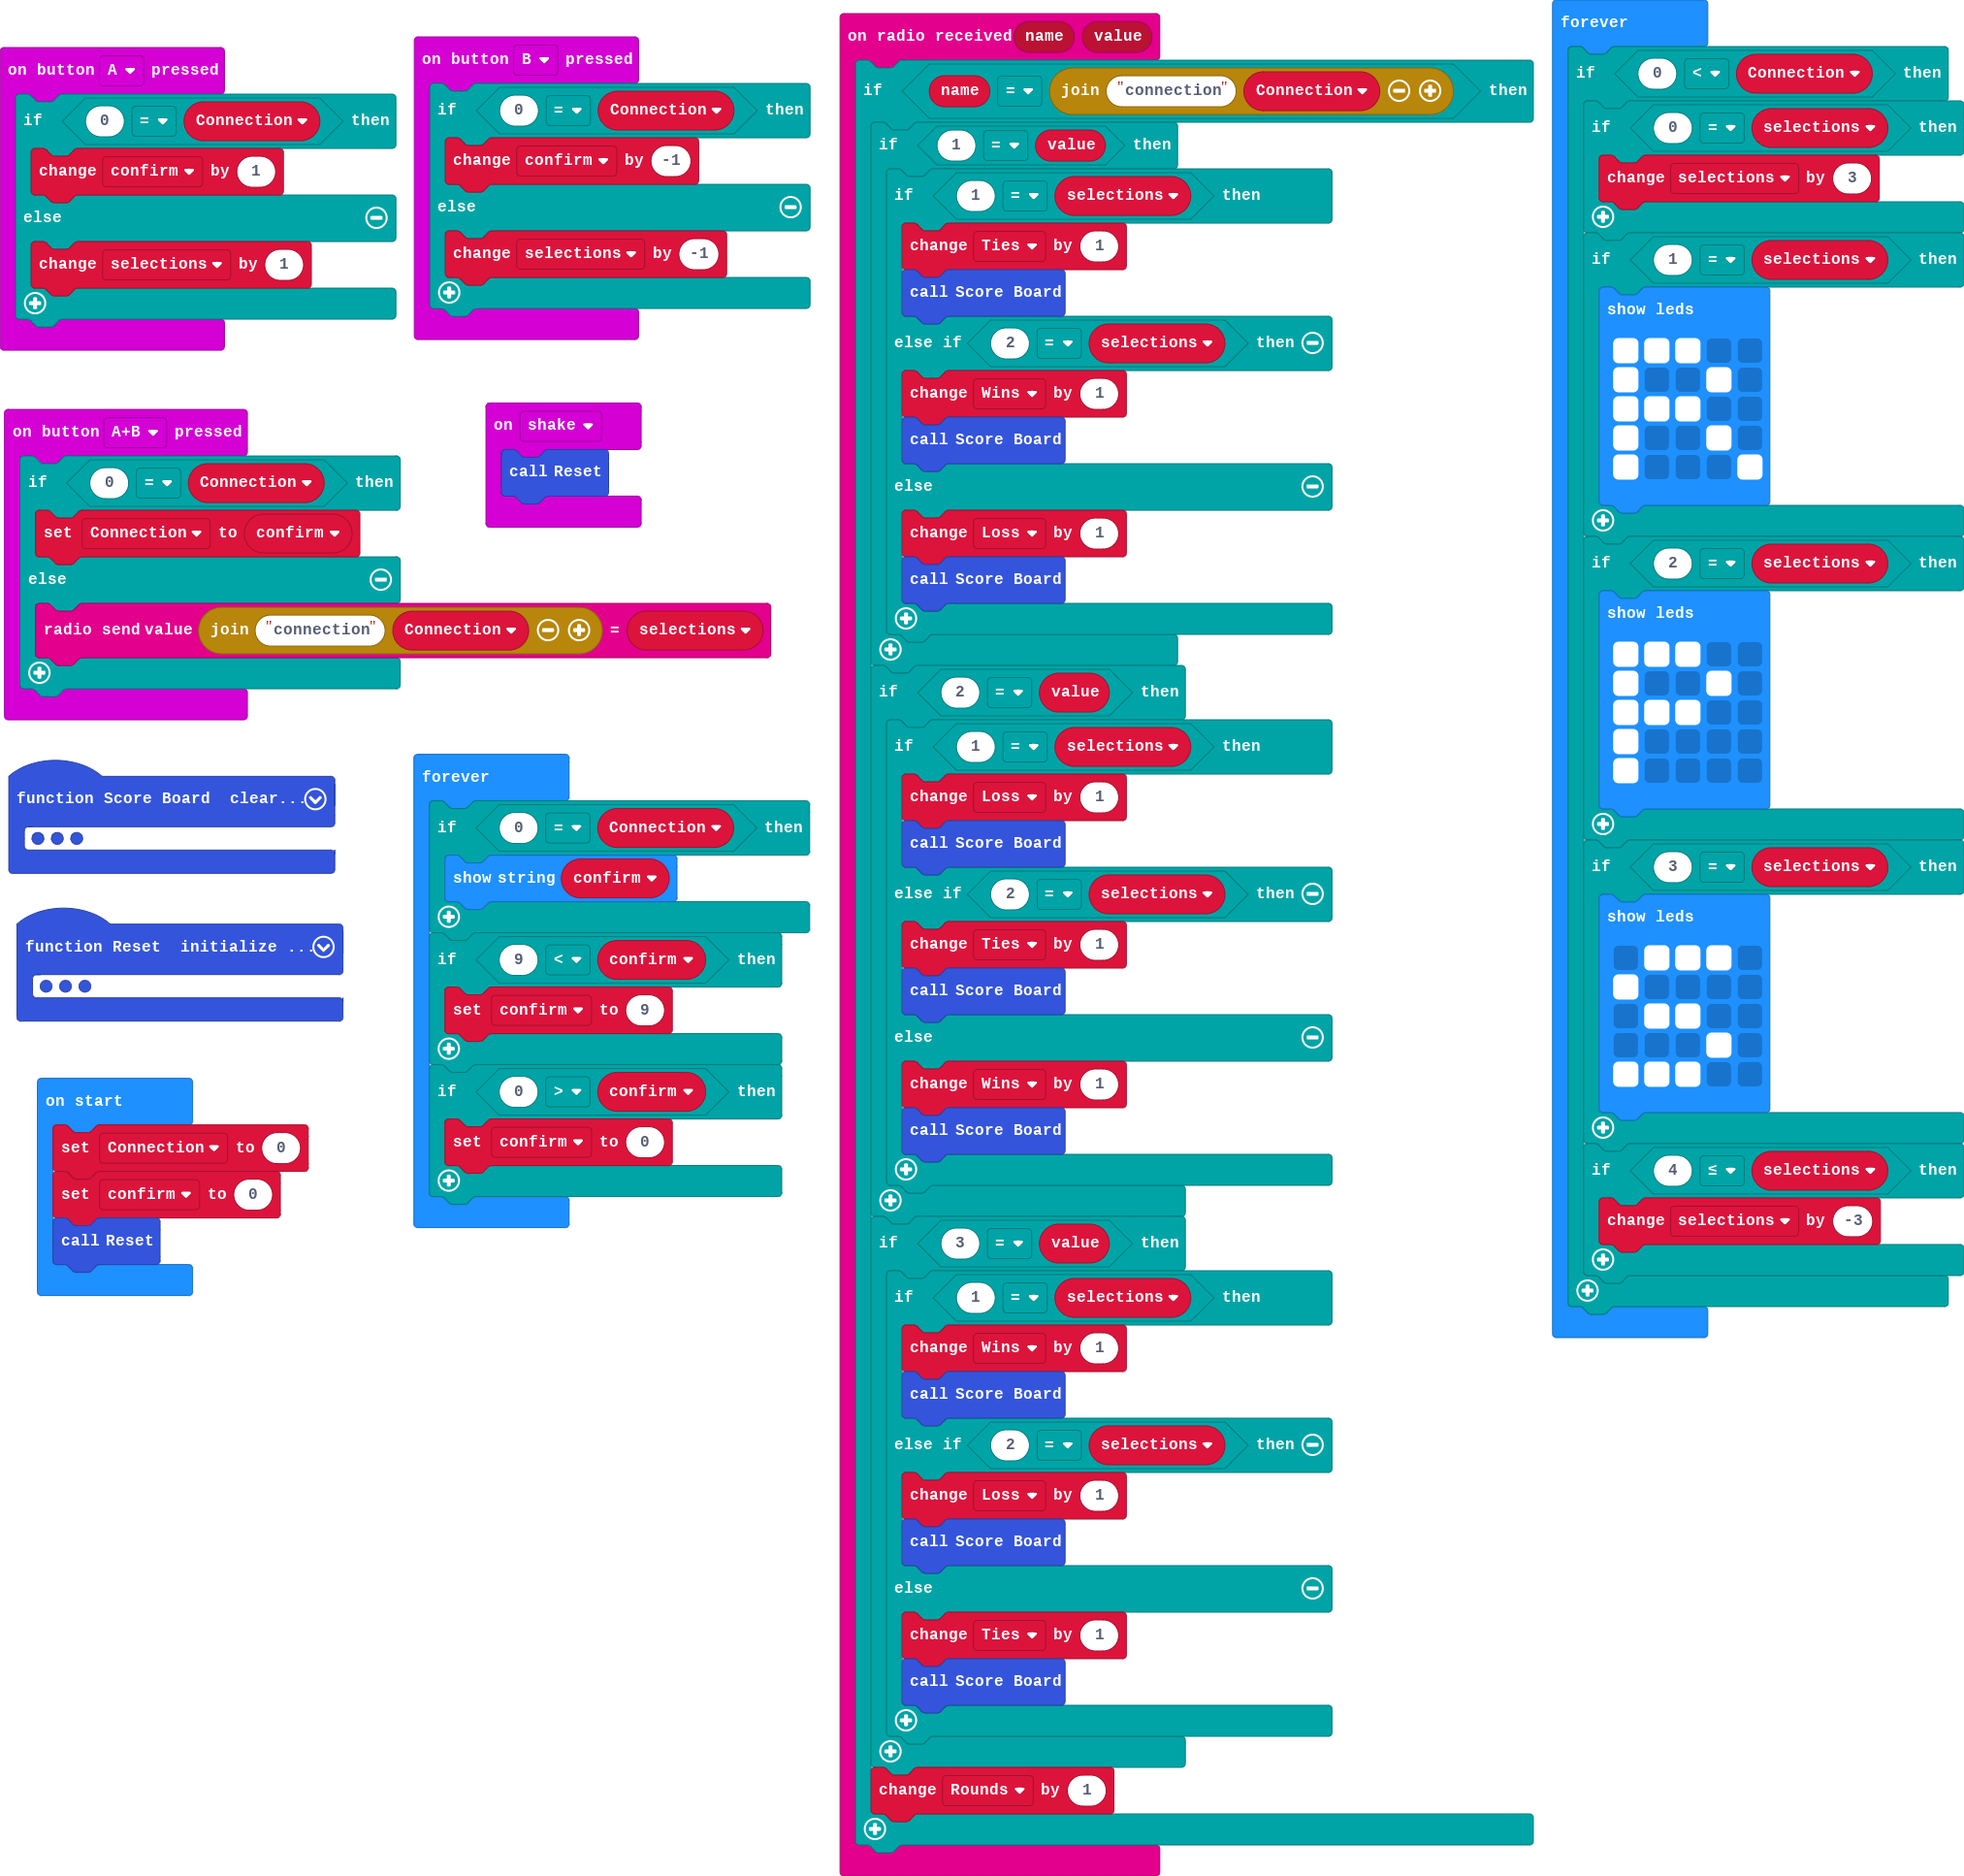
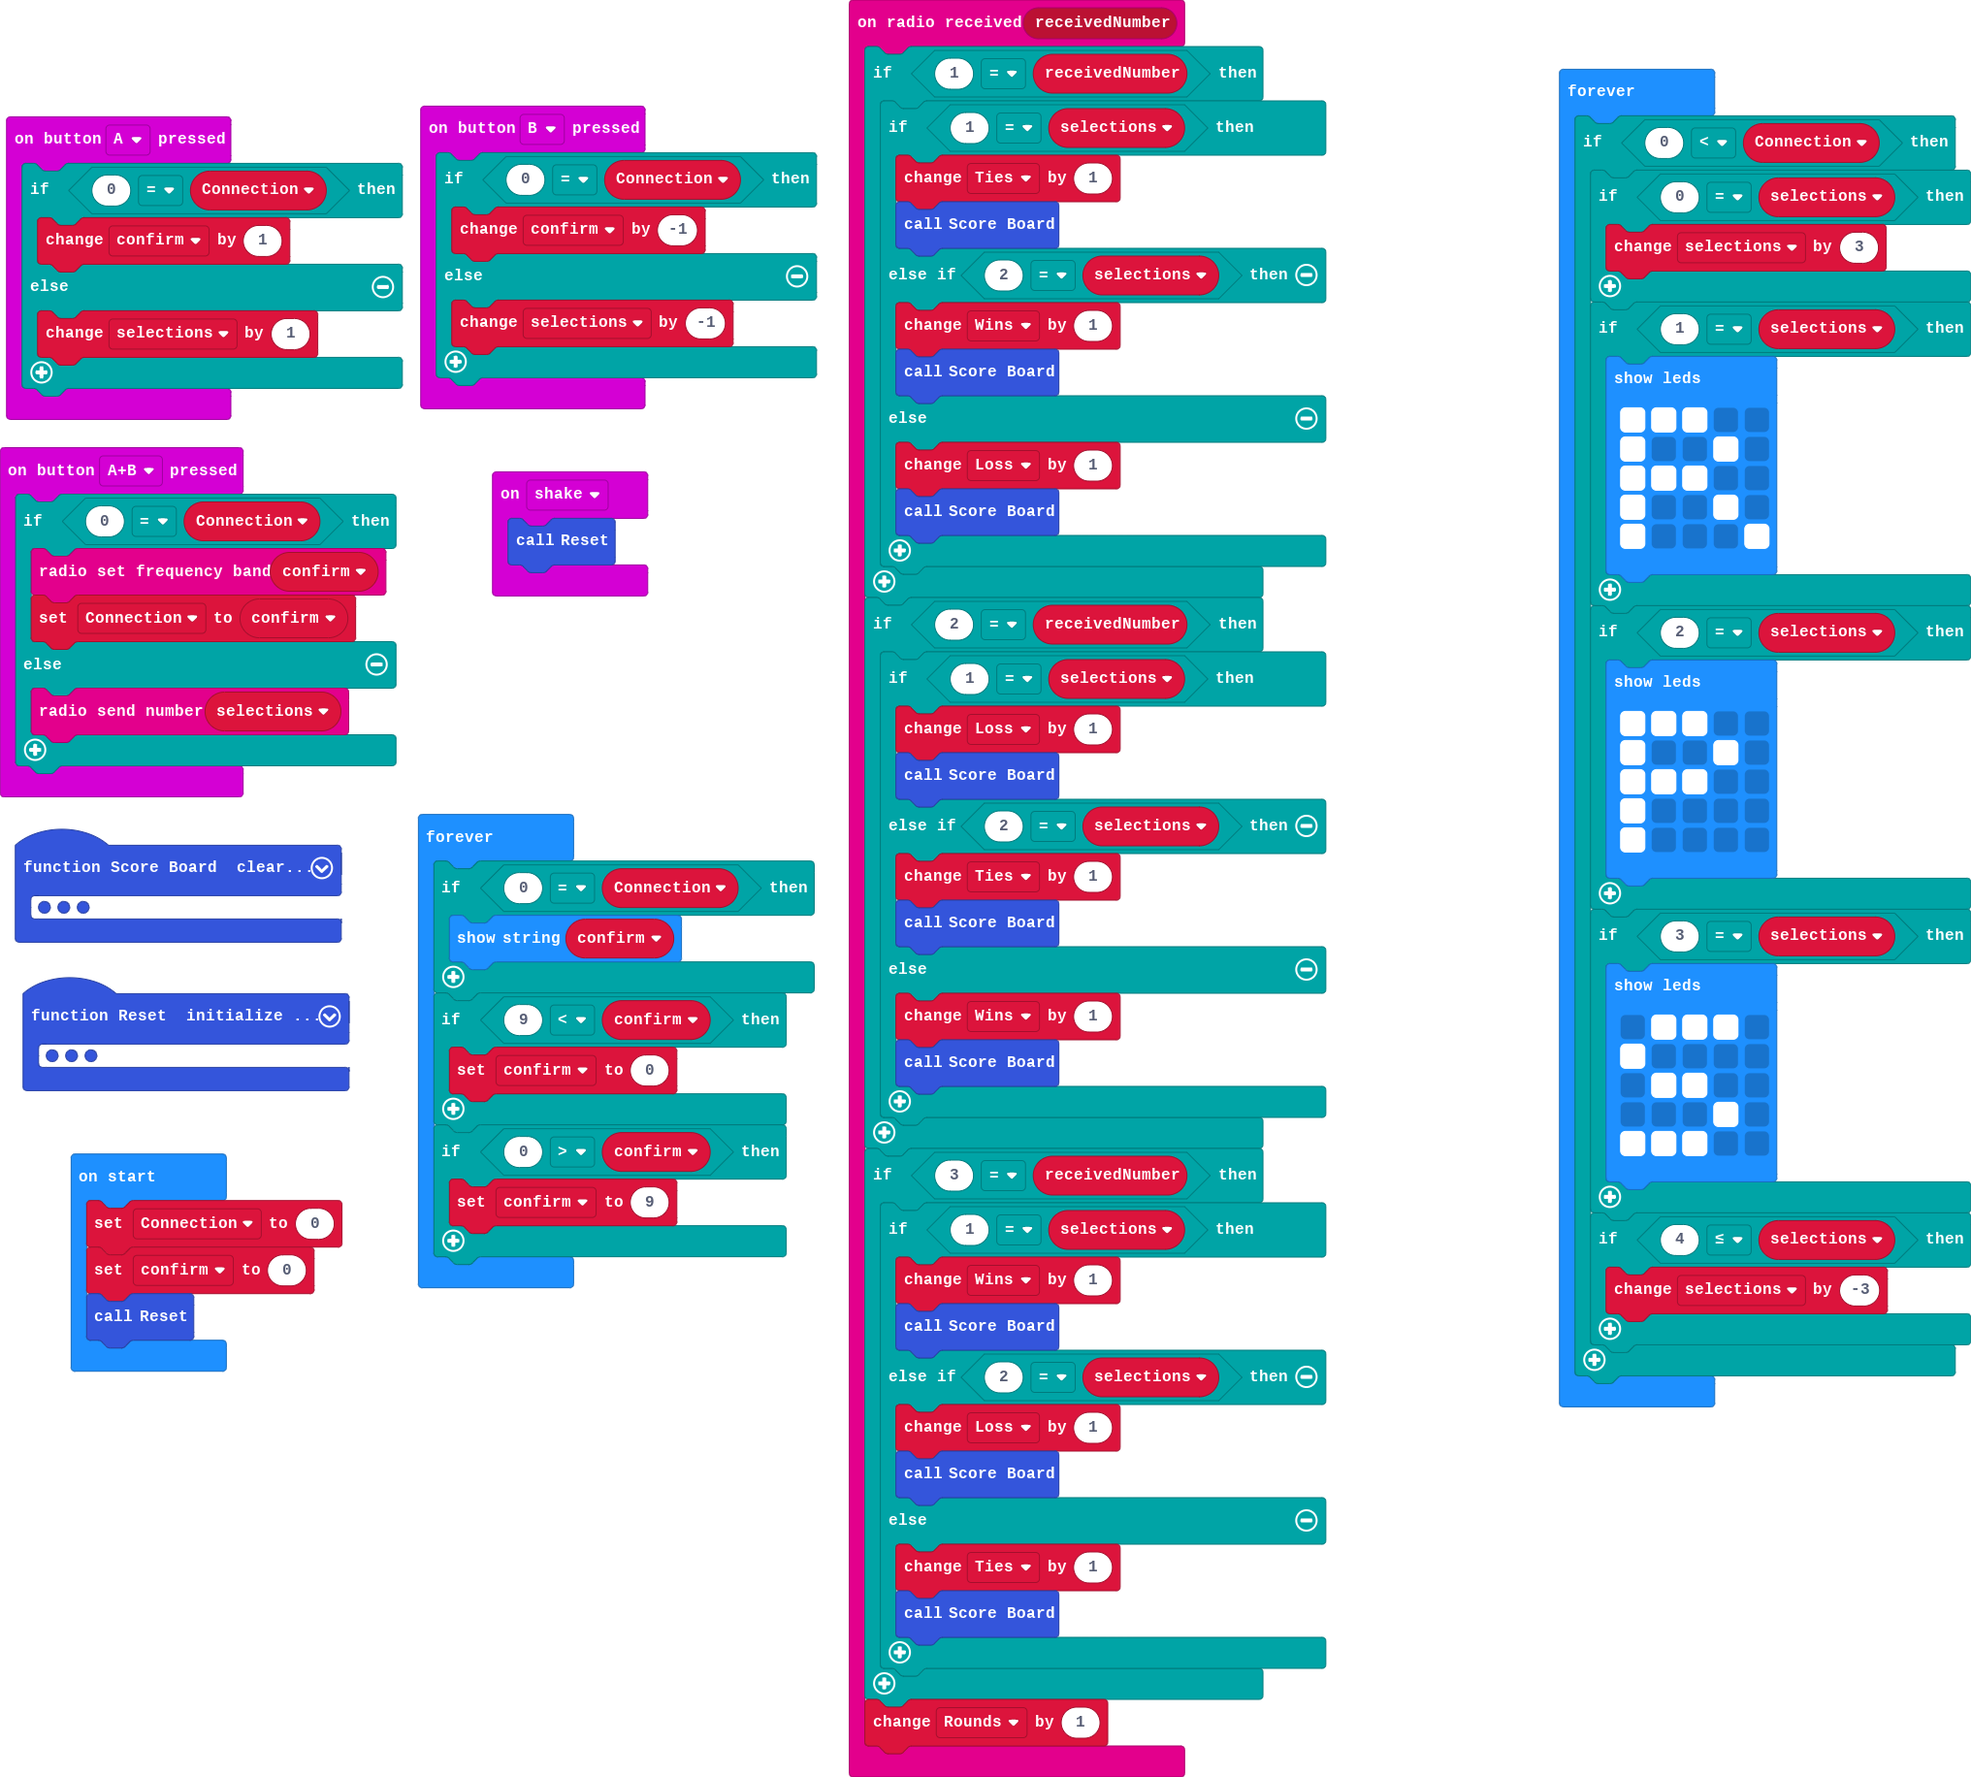
Update main.blocks, main.ts

diff --git a/main.ts b/main.ts
@@ -1,3 +1,42 @@
+radio.onReceivedNumber(function (receivedNumber) {
+    if (1 == receivedNumber) {
+        if (1 == selections) {
+            Ties += 1
+            Score_Board()
+        } else if (2 == selections) {
+            Wins += 1
+            Score_Board()
+        } else {
+            Loss += 1
+            Score_Board()
+        }
+    }
+    if (2 == receivedNumber) {
+        if (1 == selections) {
+            Loss += 1
+            Score_Board()
+        } else if (2 == selections) {
+            Ties += 1
+            Score_Board()
+        } else {
+            Wins += 1
+            Score_Board()
+        }
+    }
+    if (3 == receivedNumber) {
+        if (1 == selections) {
+            Wins += 1
+            Score_Board()
+        } else if (2 == selections) {
+            Loss += 1
+            Score_Board()
+        } else {
+            Ties += 1
+            Score_Board()
+        }
+    }
+    Rounds += 1
+})
 input.onButtonPressed(Button.A, function () {
     if (0 == Connection) {
         confirm += 1
@@ -17,9 +56,10 @@ function Score_Board () {
 }
 input.onButtonPressed(Button.AB, function () {
     if (0 == Connection) {
+        radio.setFrequencyBand(confirm)
         Connection = confirm
     } else {
-        radio.sendValue("connection" + Connection, selections)
+        radio.sendNumber(selections)
     }
 })
 input.onButtonPressed(Button.B, function () {
@@ -32,47 +72,6 @@ input.onButtonPressed(Button.B, function () {
 input.onGesture(Gesture.Shake, function () {
     Reset()
 })
-radio.onReceivedValue(function (name, value) {
-    if (name == "connection" + Connection) {
-        if (1 == value) {
-            if (1 == selections) {
-                Ties += 1
-                Score_Board()
-            } else if (2 == selections) {
-                Wins += 1
-                Score_Board()
-            } else {
-                Loss += 1
-                Score_Board()
-            }
-        }
-        if (2 == value) {
-            if (1 == selections) {
-                Loss += 1
-                Score_Board()
-            } else if (2 == selections) {
-                Ties += 1
-                Score_Board()
-            } else {
-                Wins += 1
-                Score_Board()
-            }
-        }
-        if (3 == value) {
-            if (1 == selections) {
-                Wins += 1
-                Score_Board()
-            } else if (2 == selections) {
-                Loss += 1
-                Score_Board()
-            } else {
-                Ties += 1
-                Score_Board()
-            }
-        }
-        Rounds += 1
-    }
-})
 function Reset () {
     OLED.init(128, 64)
     Wins = 0
@@ -83,9 +82,9 @@ function Reset () {
     Score_Board()
 }
 let Rounds = 0
-let Ties = 0
 let Loss = 0
 let Wins = 0
+let Ties = 0
 let selections = 0
 let confirm = 0
 let Connection = 0
@@ -134,9 +133,9 @@ basic.forever(function () {
         basic.showString("" + (confirm))
     }
     if (9 < confirm) {
-        confirm = 9
+        confirm = 0
     }
     if (0 > confirm) {
-        confirm = 0
+        confirm = 9
     }
 })
